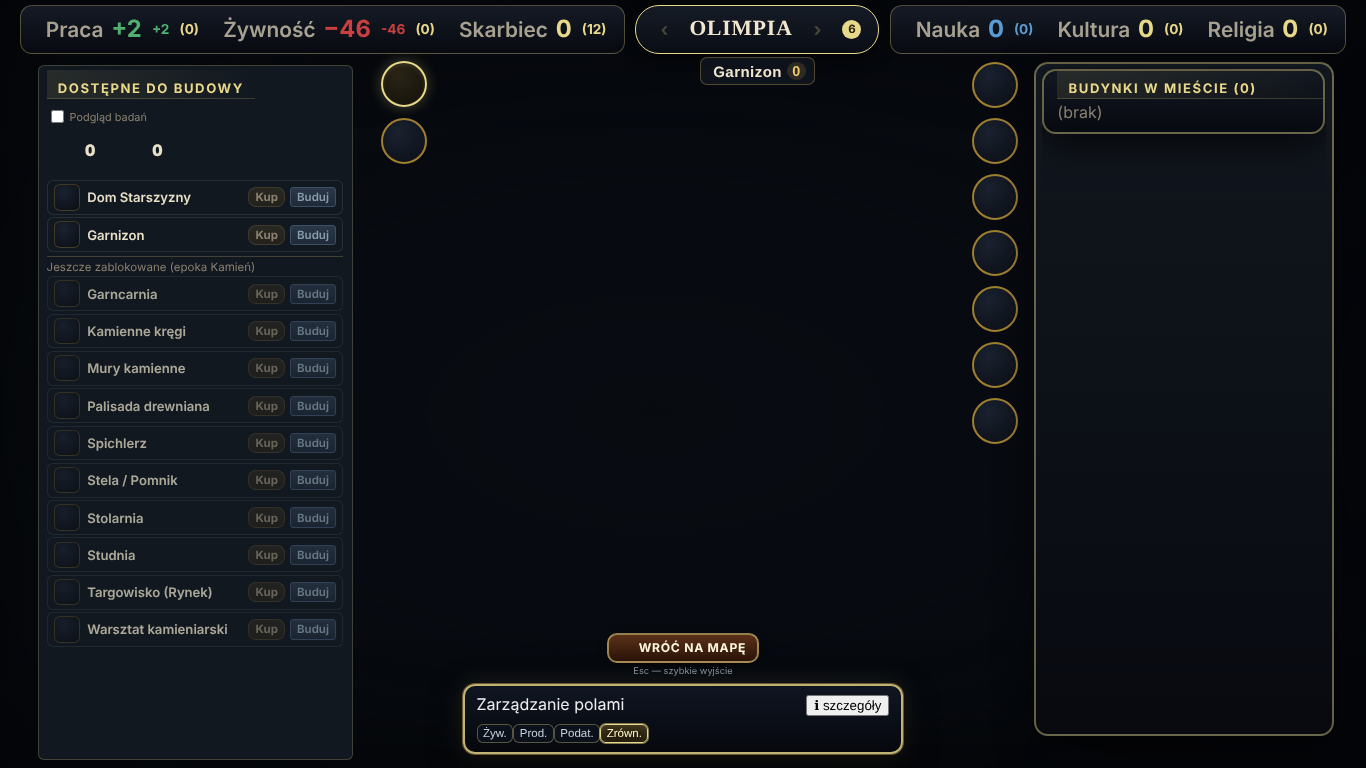
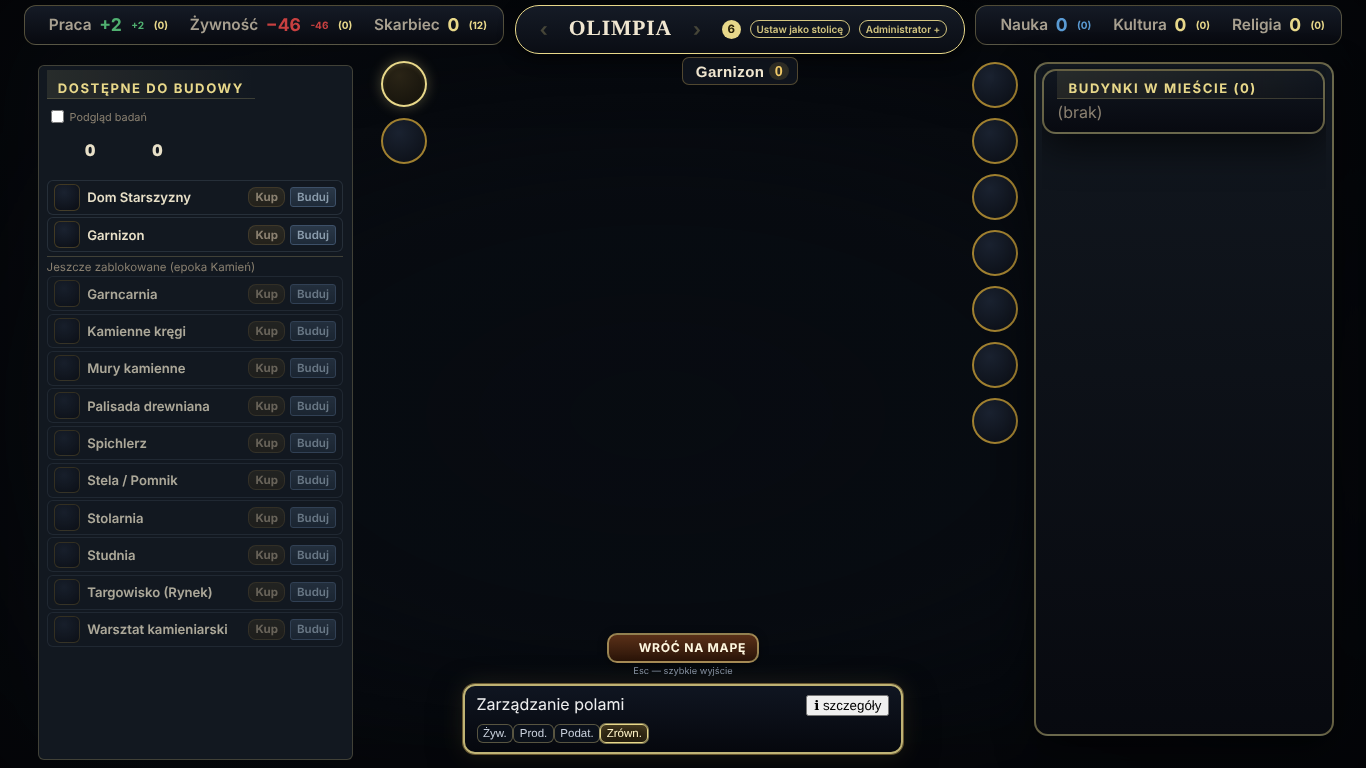
R-WEB-UI-CITY-VIEW-TOPBAR-ONE-LINE-AND-SIDE-PANELS-UP-Q1: obrona r1 (zarzuty 1, 3, 5)
- Zarzut 1: fixture testu ma teraz przyciski "Ustaw jako stolicę" i "Administrator +".
  Przed poprawką 1366x768/big i 1280x720/big FAIL (lewy żeton wychodzi poza okno, x=-13).
- Poprawka: plakietka miasta dostaje --civ-top-city-scale (zoom 1/0.9/0.8/0.7),
  używaną dopiero, gdy żetony nie mieszczą się przy najmniejszej skali żetonów.
- Zarzut 3: test sprawdza computed overflow-y:auto lewego panelu (CSS istniał wcześniej).
- Zarzut 5: zrzuty base (stan bazy przez --mutant) i after dla 4 rozmiarów, generowane przez test.
- Test: PASS=120 FAIL=0 (kandydat), PASS=88 FAIL=32 (mutant = stan bazy).

Claude-Session: https://claude.ai/code/session_01Fs7eokPtaxbQL7KGTXXeWS

Changed region(s): [[0.0307, 0.0, 0.9839, 0.125]]

diff --git a/gra/src/ui/cityUxFrame.ts b/gra/src/ui/cityUxFrame.ts
@@ -31,6 +31,9 @@ const TOP_STACK_MAX_PX = 1880;
 /** Skala żetonów górnego paska (`--civ-top-chip-scale` na `.civ-ux-top`): kolejne kroki, aż wszystkie żetony mieszczą się w jednej linii swojego banera. */
 const TOP_CHIP_SCALE_VAR = '--civ-top-chip-scale';
 const TOP_CHIP_SCALE_STEPS = [1, 0.94, 0.88, 0.82, 0.76, 0.7, 0.65, 0.6, 0.55, 0.5, 0.46, 0.44];
+/** Skala plakietki miasta (`--civ-top-city-scale`, zoom): używana dopiero, gdy żetony nie mieszczą się przy najmniejszej skali żetonów. */
+const TOP_CITY_SCALE_VAR = '--civ-top-city-scale';
+const TOP_CITY_SCALE_STEPS = [1, 0.9, 0.8, 0.7];
 const ICON_BAR_H = 0;
 const LEFT_W = CITY_LEFT_PANEL_W_PX;
 /** Lewy panel danych (produkcja) + rail produkcji po jego prawej krawędzi. */
@@ -199,9 +202,12 @@ function fitCityTopChipScale(): void {
       return cr.left >= fr.left - 0.5 && cr.right <= fr.right + 0.5;
     });
   });
-  for (const s of TOP_CHIP_SCALE_STEPS) {
-    top.style.setProperty(TOP_CHIP_SCALE_VAR, String(s));
-    if (fits()) return;
+  for (const c of TOP_CITY_SCALE_STEPS) {
+    top.style.setProperty(TOP_CITY_SCALE_VAR, String(c));
+    for (const s of TOP_CHIP_SCALE_STEPS) {
+      top.style.setProperty(TOP_CHIP_SCALE_VAR, String(s));
+      if (fits()) return;
+    }
   }
 }
 

diff --git a/gra/src/ui/cityPanel.ts b/gra/src/ui/cityPanel.ts
@@ -2649,7 +2649,9 @@ ${resourceColorClassCss('.civ-cs')}
   flex-shrink:0;min-width:0;max-width:100%;width:fit-content;}
 .civ-v-w3-city-badge{display:inline-flex;align-items:center;gap:0.55rem;padding:0.45rem 1.05rem 0.45rem 0.75rem;
   border-radius:24px;background:linear-gradient(180deg,#151b26,#0a0d14);border:1.5px solid #e8d88a;
-  box-shadow:0 5px 16px rgba(0,0,0,0.6);flex-shrink:0;max-width:100%;}
+  box-shadow:0 5px 16px rgba(0,0,0,0.6);flex-shrink:0;max-width:100%;
+  /* R-WEB-UI-CITY-VIEW-TOPBAR-ONE-LINE-AND-SIDE-PANELS-UP-Q1: plakietka miasta kurczy sie (zoom) dopiero gdy zetony nie mieszcza sie nawet w najmniejszej skali. */
+  zoom:var(--civ-top-city-scale,1);}
 .civ-v-w3-city-nav{display:inline-flex;align-items:center;justify-content:center;min-width:1.75em;min-height:1.75em;
   padding:0 0.22em;border:none;border-radius:7px;background:rgba(232,216,138,0.08);color:#e8d88a;
   font-size:1.15em;font-weight:700;line-height:1;cursor:pointer;opacity:0.92;font-family:inherit;
